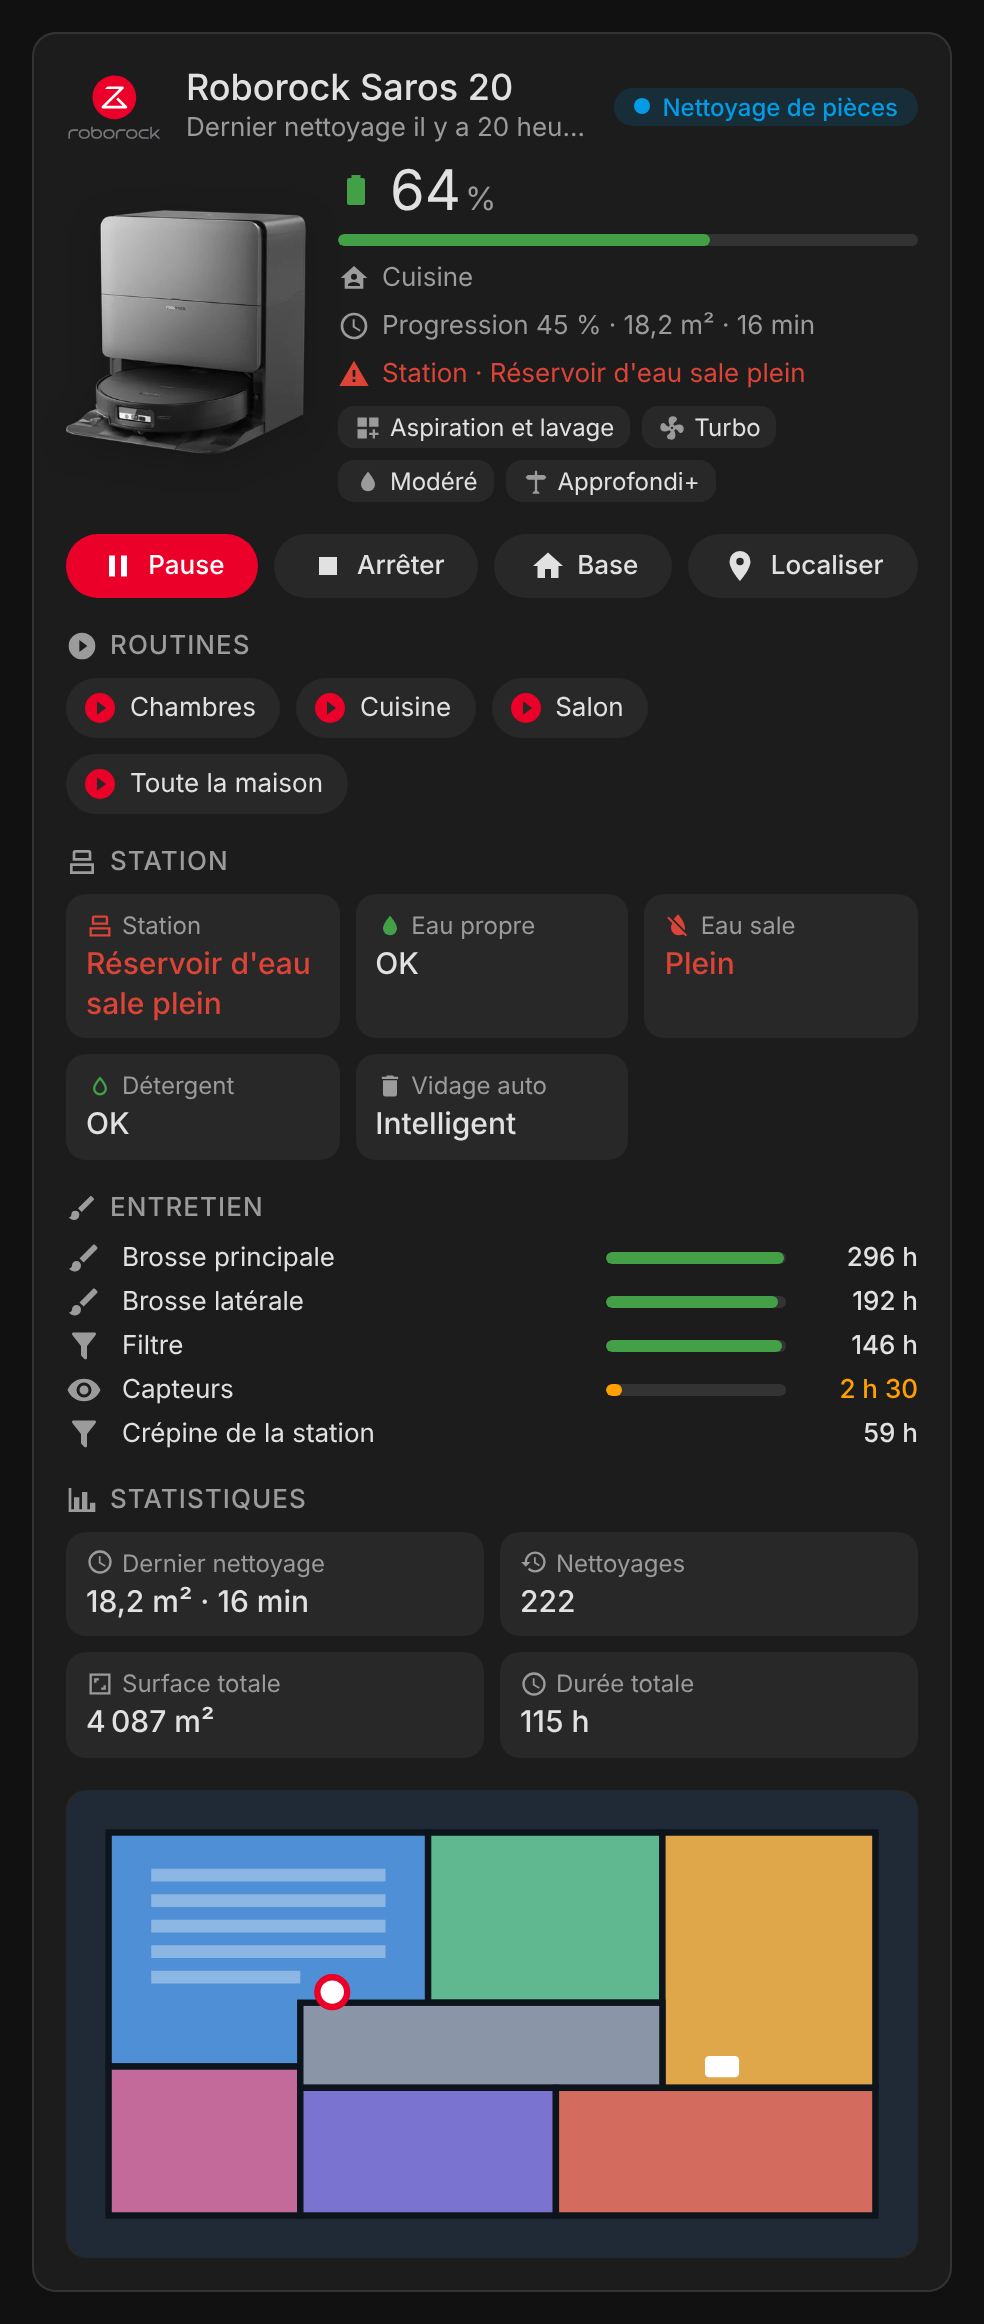
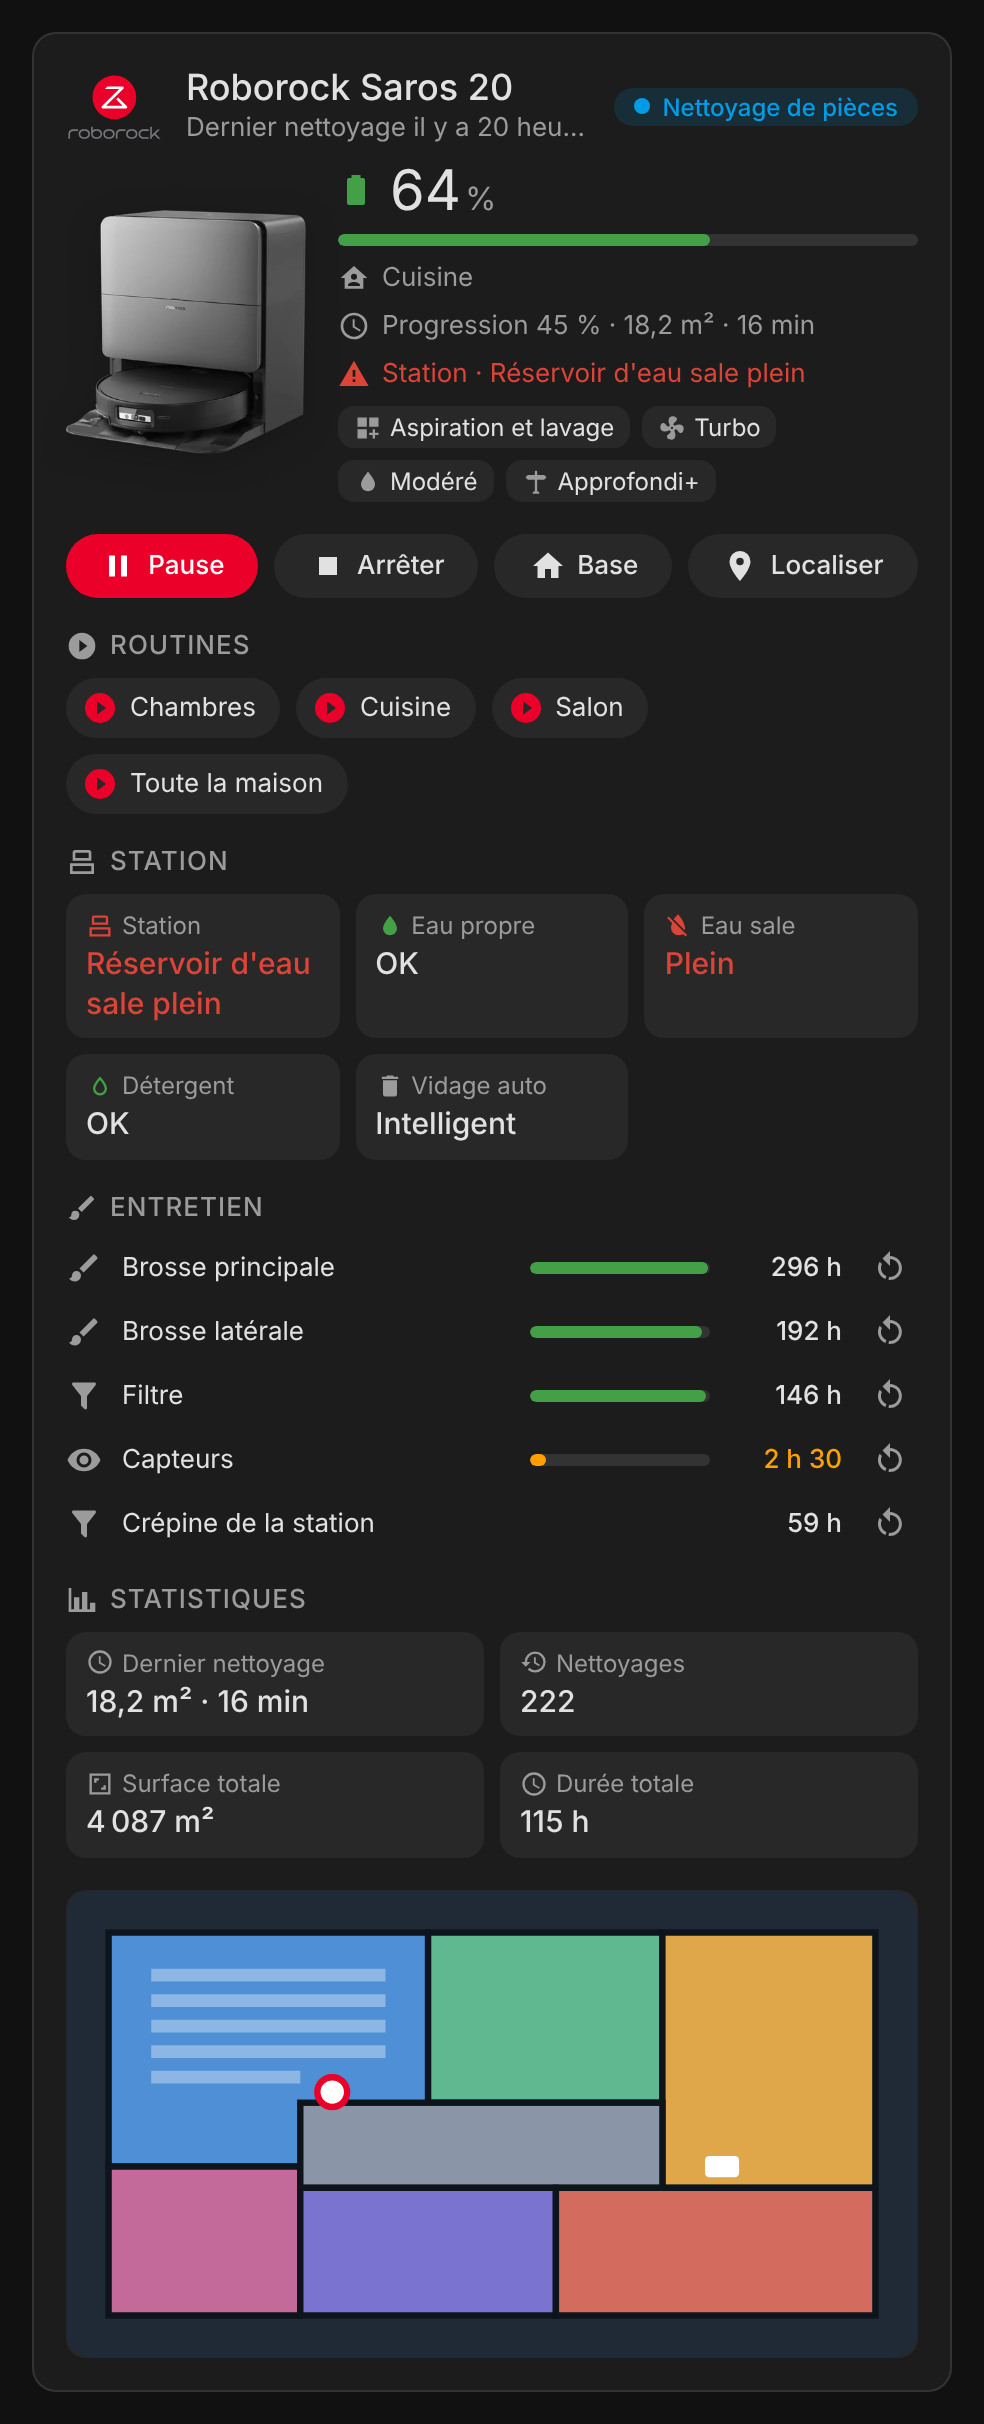
Add consumable reset buttons
Each maintenance line gets a reset button (with confirmation) when the
integration exposes the matching reset_*_consumable button.

Claude-Session: https://claude.ai/code/session_01BR93mfbPRnuFtK94DdtmVn

diff --git a/dist/roborock-card.js b/dist/roborock-card.js
@@ -49,6 +49,7 @@ const ICONS = {
   stats: "M22,21H2V3H4V19H6V10H10V19H12V6H16V19H18V14H22V21Z",
   map: "M15,19L9,16.89V5L15,7.11M20.5,3C20.44,3 20.39,3 20.34,3L15,5.1L9,3L3.36,4.9C3.15,4.97 3,5.15 3,5.38V20.5A0.5,0.5 0 0,0 3.5,21C3.55,21 3.61,21 3.66,20.97L9,18.9L15,21L20.64,19.1C20.85,19 21,18.85 21,18.62V3.5A0.5,0.5 0 0,0 20.5,3Z",
   alert: "M13 14H11V9H13M13 18H11V16H13M1 21H23L12 2L1 21Z",
+  reset: "M12,4C14.1,4 16.1,4.8 17.6,6.3C20.7,9.4 20.7,14.5 17.6,17.6C15.8,19.5 13.3,20.2 10.9,19.9L11.4,17.9C13.1,18.1 14.9,17.5 16.2,16.2C18.5,13.9 18.5,10.1 16.2,7.7C15.1,6.6 13.5,6 12,6V10.6L7,5.6L12,0.6V4M6.3,17.6C3.7,15 3.3,11 5.1,7.9L6.6,9.4C5.5,11.6 5.9,14.4 7.8,16.2C8.3,16.7 8.9,17.1 9.6,17.4L9,19.4C8,19 7.1,18.4 6.3,17.6Z",
 };
 
 const STRINGS = {
@@ -64,6 +65,8 @@ const STRINGS = {
     progress: "Progress",
     routines: "Routines",
     run_routine: "Run routine {name}?",
+    reset: "Reset",
+    confirm_reset: "Reset {name} counter? Do it after replacing or cleaning the part.",
     station: "Dock",
     consumables: "Maintenance",
     statistics: "Statistics",
@@ -182,6 +185,8 @@ const STRINGS = {
     progress: "Progression",
     routines: "Routines",
     run_routine: "Lancer la routine {name} ?",
+    reset: "Réinitialiser",
+    confirm_reset: "Réinitialiser le compteur {name} ? À faire après avoir remplacé ou nettoyé la pièce.",
     station: "Station",
     consumables: "Entretien",
     statistics: "Statistiques",
@@ -288,20 +293,21 @@ const STRINGS = {
   },
 };
 
-// Consumables: [translation_key, label, icon, lifetime in hours for the robot ("pct" when the sensor is a percentage)]
+// Consumables: [translation_key, label, icon, lifetime in hours for the robot ("pct" when the sensor is a percentage),
+//               translation_key of the integration's reset button]
 const CONSUMABLES = [
-  ["main_brush_time_left", "main_brush", ICONS.brush, 300],
-  ["side_brush_time_left", "side_brush", ICONS.brush, 200],
-  ["filter_time_left", "filter", ICONS.filter, 150],
-  ["sensor_time_left", "sensors", ICONS.sensor, 30],
+  ["main_brush_time_left", "main_brush", ICONS.brush, 300, "reset_main_brush_consumable"],
+  ["side_brush_time_left", "side_brush", ICONS.brush, 200, "reset_side_brush_consumable"],
+  ["filter_time_left", "filter", ICONS.filter, 150, "reset_air_filter_consumable"],
+  ["sensor_time_left", "sensors", ICONS.sensor, 30, "reset_sensor_consumable"],
   ["mop_life_time_left", "mop", ICONS.water, null],
   ["brush_remaining", "roller", ICONS.brush, null],
   ["main_brush_life", "main_brush", ICONS.brush, "pct"],
   ["side_brush_life", "side_brush", ICONS.brush, "pct"],
   ["filter_life", "filter", ICONS.filter, "pct"],
   ["sensor_life", "sensors", ICONS.sensor, "pct"],
-  ["strainer_time_left", "strainer", ICONS.filter, null],
-  ["cleaning_brush_time_left", "cleaning_brush", ICONS.brush, null],
+  ["strainer_time_left", "strainer", ICONS.filter, null, "reset_dock_strainer_consumable"],
+  ["cleaning_brush_time_left", "cleaning_brush", ICONS.brush, null, "reset_dock_cleaning_brush_consumable"],
 ];
 
 // ---------------------------------------------------------------------------
@@ -533,7 +539,9 @@ class RoborockBase extends HTMLElement {
     if (!el) return;
     ev.stopPropagation();
     const { action, entity, label } = el.dataset;
-    if (action === "routine") {
+    if (action === "reset") {
+      if (window.confirm(this._t("confirm_reset", { name: label }))) this._hass.callService("button", "press", { entity_id: entity });
+    } else if (action === "routine") {
       if (window.confirm(this._t("run_routine", { name: label }))) this._hass.callService("button", "press", { entity_id: entity });
     } else if (action) {
       this._hass.callService("vacuum", action, { entity_id: entity });
@@ -699,6 +707,11 @@ const FULL_STYLE = `
   .cons .v { text-align: right; font-weight: 500; white-space: nowrap; }
   .cons .v.warn, .cons .v.crit { color: var(--c); }
   .cons .nobar { height: 6px; }
+  .cons.with-reset { grid-template-columns: 18px minmax(0, 1fr) 90px 56px 28px; }
+  .reset { display: inline-flex; align-items: center; justify-content: center; width: 28px; height: 28px; border: none; border-radius: 50%;
+           background: transparent; color: var(--secondary-text-color); cursor: pointer; padding: 0; }
+  .reset:hover { background: var(--secondary-background-color, rgba(127,127,127,.12)); color: var(--rr-red); }
+  .reset .icon { width: 18px; height: 18px; }
   .map img { width: 100%; border-radius: 10px; display: block; background: var(--secondary-background-color, rgba(127,127,127,.08)); }
 `;
 
@@ -849,7 +862,7 @@ class RoborockCard extends RoborockBase {
 
   _consumables(dev) {
     const rows = [];
-    for (const [key, label, icon, life] of CONSUMABLES) {
+    for (const [key, label, icon, life, resetKey] of CONSUMABLES) {
       const s = this._s(dev.entities[key]) || this._s(dev.dock[key]);
       if (!s) continue;
       let pct = null;
@@ -869,13 +882,29 @@ class RoborockCard extends RoborockBase {
       rows.push(`
         ${svgIcon(icon)}<span class="lbl clickable" data-entity="${s.entity_id}">${esc(this._t(label))}</span>
         ${pct !== null ? `<div class="bar ${cls}"><div style="width:${Math.max(0, Math.min(100, pct))}%"></div></div>` : `<div class="nobar"></div>`}
-        <span class="v clickable ${cls}" data-entity="${s.entity_id}">${esc(text)}</span>`);
+        <span class="v clickable ${cls}" data-entity="${s.entity_id}">${esc(text)}</span>
+        ${this._resetButton(dev, resetKey, label)}`);
     }
     if (!rows.length) return "";
+    const resets = this._config.show_controls !== false && CONSUMABLES.some(([key, , , , r]) => (dev.entities[key] || dev.dock[key]) && this._resetId(dev, r));
     return `<div>
       <div class="section-title">${svgIcon(ICONS.brush)}${esc(this._t("consumables"))}</div>
-      <div class="cons">${rows.join("")}</div>
+      <div class="cons ${resets ? "with-reset" : ""}">${rows.join("")}</div>
     </div>`;
+  }
+
+  _resetId(dev, key) {
+    const id = key && (dev.entities[key] || dev.dock[key]);
+    const s = this._s(id);
+    return s && s.state !== "unavailable" ? id : null;
+  }
+
+  // Reset button of a consumable, when the integration exposes one; an empty cell keeps the grid aligned.
+  _resetButton(dev, key, label) {
+    if (this._config.show_controls === false) return "";
+    const id = this._resetId(dev, key);
+    if (!id) return `<span></span>`;
+    return `<button class="reset" title="${esc(this._t("reset"))}" data-action="reset" data-entity="${id}" data-label="${esc(this._t(label))}">${svgIcon(ICONS.reset)}</button>`;
   }
 
   _stats(dev) {

diff --git a/src/roborock-card.js b/src/roborock-card.js
@@ -49,6 +49,7 @@ const ICONS = {
   stats: "M22,21H2V3H4V19H6V10H10V19H12V6H16V19H18V14H22V21Z",
   map: "M15,19L9,16.89V5L15,7.11M20.5,3C20.44,3 20.39,3 20.34,3L15,5.1L9,3L3.36,4.9C3.15,4.97 3,5.15 3,5.38V20.5A0.5,0.5 0 0,0 3.5,21C3.55,21 3.61,21 3.66,20.97L9,18.9L15,21L20.64,19.1C20.85,19 21,18.85 21,18.62V3.5A0.5,0.5 0 0,0 20.5,3Z",
   alert: "M13 14H11V9H13M13 18H11V16H13M1 21H23L12 2L1 21Z",
+  reset: "M12,4C14.1,4 16.1,4.8 17.6,6.3C20.7,9.4 20.7,14.5 17.6,17.6C15.8,19.5 13.3,20.2 10.9,19.9L11.4,17.9C13.1,18.1 14.9,17.5 16.2,16.2C18.5,13.9 18.5,10.1 16.2,7.7C15.1,6.6 13.5,6 12,6V10.6L7,5.6L12,0.6V4M6.3,17.6C3.7,15 3.3,11 5.1,7.9L6.6,9.4C5.5,11.6 5.9,14.4 7.8,16.2C8.3,16.7 8.9,17.1 9.6,17.4L9,19.4C8,19 7.1,18.4 6.3,17.6Z",
 };
 
 const STRINGS = {
@@ -64,6 +65,8 @@ const STRINGS = {
     progress: "Progress",
     routines: "Routines",
     run_routine: "Run routine {name}?",
+    reset: "Reset",
+    confirm_reset: "Reset {name} counter? Do it after replacing or cleaning the part.",
     station: "Dock",
     consumables: "Maintenance",
     statistics: "Statistics",
@@ -182,6 +185,8 @@ const STRINGS = {
     progress: "Progression",
     routines: "Routines",
     run_routine: "Lancer la routine {name} ?",
+    reset: "Réinitialiser",
+    confirm_reset: "Réinitialiser le compteur {name} ? À faire après avoir remplacé ou nettoyé la pièce.",
     station: "Station",
     consumables: "Entretien",
     statistics: "Statistiques",
@@ -288,20 +293,21 @@ const STRINGS = {
   },
 };
 
-// Consumables: [translation_key, label, icon, lifetime in hours for the robot ("pct" when the sensor is a percentage)]
+// Consumables: [translation_key, label, icon, lifetime in hours for the robot ("pct" when the sensor is a percentage),
+//               translation_key of the integration's reset button]
 const CONSUMABLES = [
-  ["main_brush_time_left", "main_brush", ICONS.brush, 300],
-  ["side_brush_time_left", "side_brush", ICONS.brush, 200],
-  ["filter_time_left", "filter", ICONS.filter, 150],
-  ["sensor_time_left", "sensors", ICONS.sensor, 30],
+  ["main_brush_time_left", "main_brush", ICONS.brush, 300, "reset_main_brush_consumable"],
+  ["side_brush_time_left", "side_brush", ICONS.brush, 200, "reset_side_brush_consumable"],
+  ["filter_time_left", "filter", ICONS.filter, 150, "reset_air_filter_consumable"],
+  ["sensor_time_left", "sensors", ICONS.sensor, 30, "reset_sensor_consumable"],
   ["mop_life_time_left", "mop", ICONS.water, null],
   ["brush_remaining", "roller", ICONS.brush, null],
   ["main_brush_life", "main_brush", ICONS.brush, "pct"],
   ["side_brush_life", "side_brush", ICONS.brush, "pct"],
   ["filter_life", "filter", ICONS.filter, "pct"],
   ["sensor_life", "sensors", ICONS.sensor, "pct"],
-  ["strainer_time_left", "strainer", ICONS.filter, null],
-  ["cleaning_brush_time_left", "cleaning_brush", ICONS.brush, null],
+  ["strainer_time_left", "strainer", ICONS.filter, null, "reset_dock_strainer_consumable"],
+  ["cleaning_brush_time_left", "cleaning_brush", ICONS.brush, null, "reset_dock_cleaning_brush_consumable"],
 ];
 
 // ---------------------------------------------------------------------------
@@ -533,7 +539,9 @@ class RoborockBase extends HTMLElement {
     if (!el) return;
     ev.stopPropagation();
     const { action, entity, label } = el.dataset;
-    if (action === "routine") {
+    if (action === "reset") {
+      if (window.confirm(this._t("confirm_reset", { name: label }))) this._hass.callService("button", "press", { entity_id: entity });
+    } else if (action === "routine") {
       if (window.confirm(this._t("run_routine", { name: label }))) this._hass.callService("button", "press", { entity_id: entity });
     } else if (action) {
       this._hass.callService("vacuum", action, { entity_id: entity });
@@ -699,6 +707,11 @@ const FULL_STYLE = `
   .cons .v { text-align: right; font-weight: 500; white-space: nowrap; }
   .cons .v.warn, .cons .v.crit { color: var(--c); }
   .cons .nobar { height: 6px; }
+  .cons.with-reset { grid-template-columns: 18px minmax(0, 1fr) 90px 56px 28px; }
+  .reset { display: inline-flex; align-items: center; justify-content: center; width: 28px; height: 28px; border: none; border-radius: 50%;
+           background: transparent; color: var(--secondary-text-color); cursor: pointer; padding: 0; }
+  .reset:hover { background: var(--secondary-background-color, rgba(127,127,127,.12)); color: var(--rr-red); }
+  .reset .icon { width: 18px; height: 18px; }
   .map img { width: 100%; border-radius: 10px; display: block; background: var(--secondary-background-color, rgba(127,127,127,.08)); }
 `;
 
@@ -849,7 +862,7 @@ class RoborockCard extends RoborockBase {
 
   _consumables(dev) {
     const rows = [];
-    for (const [key, label, icon, life] of CONSUMABLES) {
+    for (const [key, label, icon, life, resetKey] of CONSUMABLES) {
       const s = this._s(dev.entities[key]) || this._s(dev.dock[key]);
       if (!s) continue;
       let pct = null;
@@ -869,13 +882,29 @@ class RoborockCard extends RoborockBase {
       rows.push(`
         ${svgIcon(icon)}<span class="lbl clickable" data-entity="${s.entity_id}">${esc(this._t(label))}</span>
         ${pct !== null ? `<div class="bar ${cls}"><div style="width:${Math.max(0, Math.min(100, pct))}%"></div></div>` : `<div class="nobar"></div>`}
-        <span class="v clickable ${cls}" data-entity="${s.entity_id}">${esc(text)}</span>`);
+        <span class="v clickable ${cls}" data-entity="${s.entity_id}">${esc(text)}</span>
+        ${this._resetButton(dev, resetKey, label)}`);
     }
     if (!rows.length) return "";
+    const resets = this._config.show_controls !== false && CONSUMABLES.some(([key, , , , r]) => (dev.entities[key] || dev.dock[key]) && this._resetId(dev, r));
     return `<div>
       <div class="section-title">${svgIcon(ICONS.brush)}${esc(this._t("consumables"))}</div>
-      <div class="cons">${rows.join("")}</div>
+      <div class="cons ${resets ? "with-reset" : ""}">${rows.join("")}</div>
     </div>`;
+  }
+
+  _resetId(dev, key) {
+    const id = key && (dev.entities[key] || dev.dock[key]);
+    const s = this._s(id);
+    return s && s.state !== "unavailable" ? id : null;
+  }
+
+  // Reset button of a consumable, when the integration exposes one; an empty cell keeps the grid aligned.
+  _resetButton(dev, key, label) {
+    if (this._config.show_controls === false) return "";
+    const id = this._resetId(dev, key);
+    if (!id) return `<span></span>`;
+    return `<button class="reset" title="${esc(this._t("reset"))}" data-action="reset" data-entity="${id}" data-label="${esc(this._t(label))}">${svgIcon(ICONS.reset)}</button>`;
   }
 
   _stats(dev) {

diff --git a/README.md b/README.md
@@ -27,7 +27,7 @@ The cards are built on top of the [Roborock integration](https://www.home-assist
 - Start / pause, stop, return to dock and locate buttons
 - Routines from the Roborock app as one-tap buttons (with confirmation)
 - Dock: clean and dirty water tanks, detergent, auto-empty mode, mop drying
-- Maintenance: main brush, side brush, filter, sensors, dock strainer… with remaining time
+- Maintenance: main brush, side brush, filter, sensors, dock strainer… with remaining time and a reset button (with confirmation) when the integration provides one
 - Statistics: last clean, number of cleanings, total area and time
 - Optional map
 - Click any value to open its Home Assistant history (more-info dialog)
@@ -118,7 +118,7 @@ language: fr
 | `title` | both | Device name | Card title |
 | `image` | both | `auto` | Device picture: `auto` (per model), `saros_20`, `f25_ultra`, `none`, or the URL of your own picture (e.g. `/local/my-robot.png`) |
 | `show_logo` | both | `true` | Show the Roborock logo (opens [roborock.com](https://www.roborock.com) in a new tab) |
-| `show_controls` | both | `true` | Start / pause, stop, dock and locate buttons (robot vacuums) |
+| `show_controls` | both | `true` | Start / pause, stop, dock and locate buttons (robot vacuums), and maintenance reset buttons |
 | `show_modes` | full | `true` | Cleaning mode, suction power, mop intensity and route |
 | `show_routines` | full | `true` | Routines buttons |
 | `show_dock` | full | `true` | Dock status |
@@ -149,6 +149,8 @@ States and errors are shown with the card's own translations when available, oth
 The device picture is chosen from the model: robot vacuums show the Saros 20, wet-dry vacuums (`roborock.wdv.*`) show the F25 Ultra. Use the `image` option to pick another one or your own.
 
 Routines created in the Roborock app appear as buttons in the integration; the card lists them and asks for confirmation before running one.
+
+Each maintenance line has a reset button when the integration exposes the matching **Reset … consumable** button (main brush, side brush, filter, sensors, dock strainer, dock brush). It asks for confirmation before resetting the counter.
 
 Maintenance thresholds: the remaining time turns orange under 10 % of the part lifetime (or under 10 h when the lifetime is unknown), and red when it reaches 0. Bars use the Roborock lifetimes: main brush 300 h, side brush 200 h, filter 150 h, sensors 30 h.
 

diff --git a/CHANGELOG.md b/CHANGELOG.md
@@ -10,7 +10,7 @@ First release of the Roborock cards for Home Assistant, built for the [Roborock 
 
 ### ✨ Features
 
-- **Roborock Card** (`custom:roborock-card`): device picture, battery, status, current room, cleaning progress, cleaning settings, start / pause / stop / dock / locate buttons, routines, dock (water tanks, detergent, auto-empty, mop drying), maintenance (brushes, filter, sensors…), statistics and optional map.
+- **Roborock Card** (`custom:roborock-card`): device picture, battery, status, current room, cleaning progress, cleaning settings, start / pause / stop / dock / locate buttons, routines, dock (water tanks, detergent, auto-empty, mop drying), maintenance (brushes, filter, sensors…) with reset buttons, statistics and optional map.
 - **Roborock Mini Card** (`custom:roborock-mini-card`): compact overview with picture, battery, room or error and quick start / pause and dock buttons.
 - Robot vacuums (Saros 20 picture) and wet-dry vacuums (F25 Ultra picture), picked automatically per model, or a picture of your own.
 - **Automatic discovery** through the entity and device registries: no entity to pick, several devices supported, dock entities merged with their robot, works with entity ids in any language.
